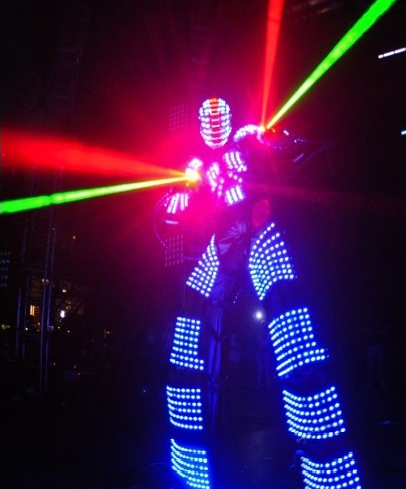
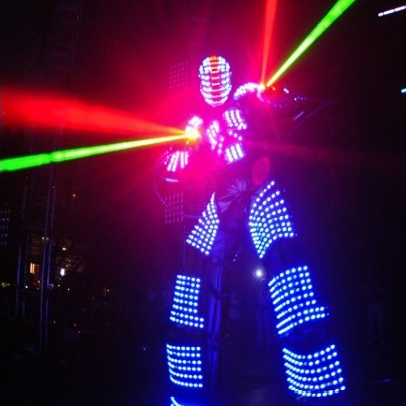
Image height fixed in services section

diff --git a/styles.css b/styles.css
@@ -661,7 +661,7 @@ button {
 
 .service-image {
     position: relative;
-    height: 290px;
+    height: auto;
     overflow: hidden;
 }
 
@@ -1433,10 +1433,6 @@ button {
     .services-grid {
         grid-template-columns: 1fr;
     }
-    
-    .gallery-slider {
-        height: 350px;
-    }
 
     .gallery-jump {
         display: block;
@@ -1465,10 +1461,6 @@ button {
     .btn {
         width: 100%;
         justify-content: center;
-    }
-    
-    .gallery-slider {
-        height: 280px;
     }
     
     .gallery-btn {